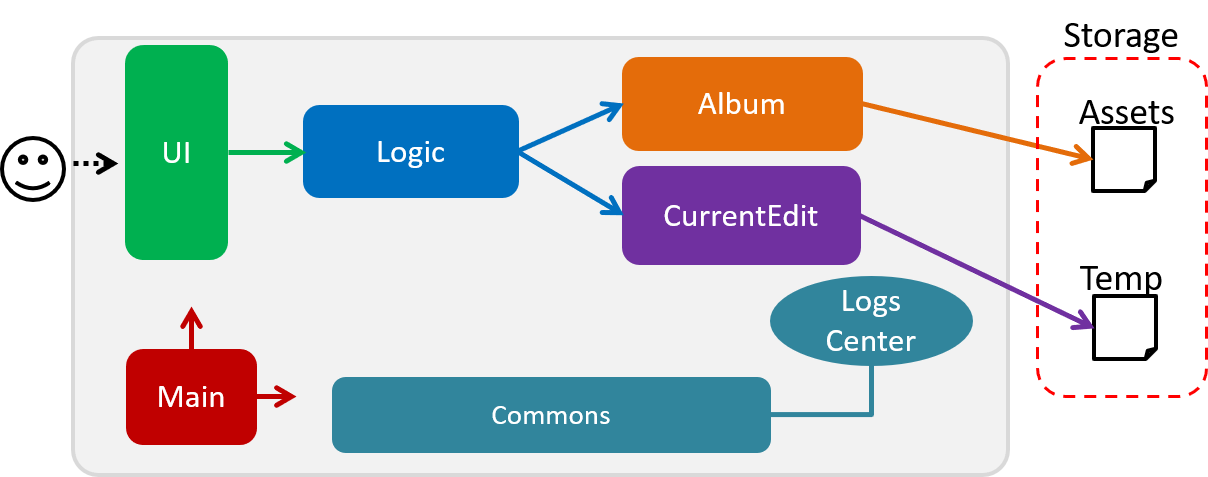
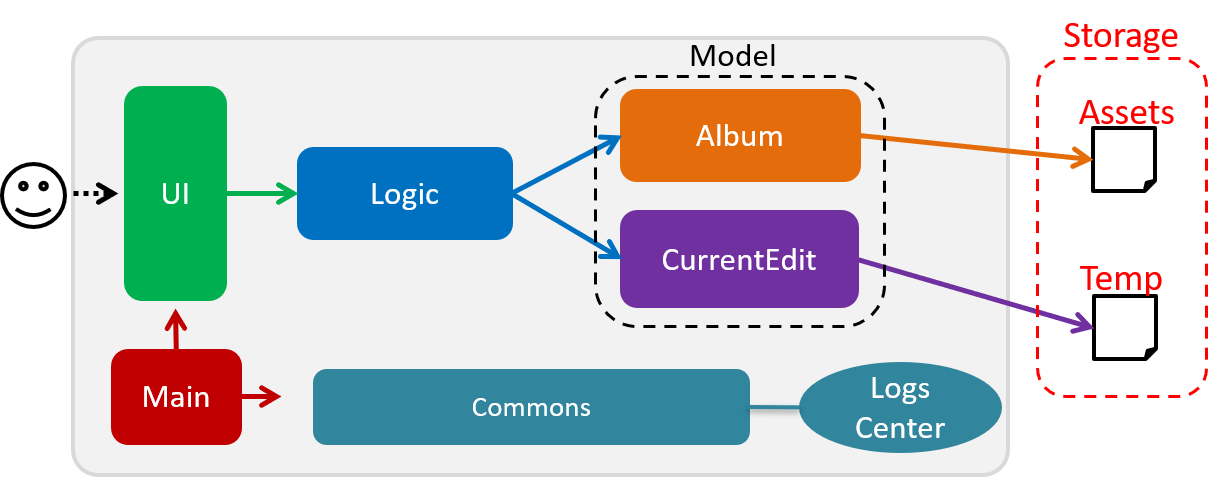
Rebuild pages at 01d3b1e4b3c762d44529b9273e14dbd3c4772f39

diff --git a/DeveloperGuide.html b/DeveloperGuide.html
@@ -359,7 +359,7 @@ The following class plays an important role at the architecture level:</p>
 </ul>
 </div>
 <div class="paragraph">
-<p>The rest of the App consists of five components.</p>
+<p>The rest of the App consists of four components.</p>
 </div>
 <div class="ulist">
 <ul>
@@ -370,18 +370,15 @@ The following class plays an important role at the architecture level:</p>
 <p><a href="#Design-Logic"><strong><code>Logic</code></strong></a>: The command executor.</p>
 </li>
 <li>
-<p><a href="#Design-CurrentEdit"><strong><code>CurrentEdit</code></strong></a>: Holds the image that the App is currently editing in-memory.</p>
-</li>
-<li>
 <p><a href="#Design-Storage"><strong><code>Storage</code></strong></a>: Reads data from, and writes data to, the hard disk.</p>
 </li>
 <li>
-<p><a href="#Design-Album"><strong><code>Album</code></strong></a>: Stores the pool of images that has been imported into the App.</p>
+<p><a href="#Design-Model"><strong><code>Model</code></strong></a>: Holds the data of images in the App in memory.</p>
 </li>
 </ul>
 </div>
 <div class="paragraph">
-<p>The first four components:</p>
+<p>Each of the first three components do the following:</p>
 </div>
 <div class="ulist">
 <ul>
@@ -391,16 +388,29 @@ The following class plays an important role at the architecture level:</p>
 <li>
 <p>Exposes its functionality using a <code>{Component Name}Manager</code> class.</p>
 </li>
-</ul>
-</div>
-<div class="paragraph">
+<li>
 <p>For example, the <code>Logic</code> component (see the class diagram given below) defines it&#8217;s API in the <code>Logic.java</code> interface and exposes its functionality using the <code>LogicManager.java</code> class.</p>
+</li>
+</ul>
 </div>
 <div class="imageblock">
 <div class="content">
 <img src="images/LogicClassDiagram.png" alt="LogicClassDiagram" width="800">
 </div>
 <div class="title">Figure 2. Class Diagram of the Logic Component</div>
+</div>
+<div class="paragraph">
+<p>The <code>Model</code> component consists of two components:</p>
+</div>
+<div class="ulist">
+<ul>
+<li>
+<p><code>CurrentEdit</code> which holds the image that the App is currently editing in-memory.</p>
+</li>
+<li>
+<p><code>Album</code> which stores the pool of images that has been imported into the App.</p>
+</li>
+</ul>
 </div>
 <h4 id="how-the-architecture-components-interact-with-each-other" class="discrete">How the architecture components interact with each other</h4>
 <div class="paragraph">
@@ -2817,4 +2827,4 @@ Expected: Similar to previous.</p>
 </div>
 </div>
 </div>
-</div></div><div id="footer"><div class="container"><div id="footer-text">Last updated 2019-03-31 16:29:35 UTC</div></div></div></body></html>
+</div></div><div id="footer"><div class="container"><div id="footer-text">Last updated 2019-03-31 16:30:23 UTC</div></div></div></body></html>

diff --git a/team/carrein.html b/team/carrein.html
@@ -378,4 +378,4 @@ If the <code>index</code> is at index <code>commandHistory.size()</code>, pointi
 <p><em>{Optionally, you may include other projects in your portfolio.}</em></p>
 </div>
 </div>
-</div></div><div id="footer"><div class="container"><div id="footer-text">Last updated 2019-03-31 16:29:35 UTC</div></div></div></body></html>
+</div></div><div id="footer"><div class="container"><div id="footer-text">Last updated 2019-03-31 16:30:23 UTC</div></div></div></body></html>

diff --git a/team/itszp.html b/team/itszp.html
@@ -375,4 +375,4 @@ If the <code>index</code> is at index <code>commandHistory.size()</code>, pointi
 <p><em>{Optionally, you may include other projects in your portfolio.}</em></p>
 </div>
 </div>
-</div></div><div id="footer"><div class="container"><div id="footer-text">Last updated 2019-03-31 16:29:35 UTC</div></div></div></body></html>
+</div></div><div id="footer"><div class="container"><div id="footer-text">Last updated 2019-03-31 16:30:23 UTC</div></div></div></body></html>

diff --git a/LearningOutcomes.html b/LearningOutcomes.html
@@ -549,4 +549,4 @@ When the value represented by the <code>ObservableValue</code> changes, it will 
 </div>
 </div>
 </div>
-</div></div><div id="footer"><div class="container"><div id="footer-text">Last updated 2019-03-31 16:29:35 UTC</div></div></div></body></html>
+</div></div><div id="footer"><div class="container"><div id="footer-text">Last updated 2019-03-31 16:30:23 UTC</div></div></div></body></html>

diff --git a/ContactUs.html b/ContactUs.html
@@ -12,4 +12,4 @@
 <p><strong>Email us</strong> : You can also reach us at <code>kayheen@u.nus.edu</code></p>
 </li>
 </ul>
-</div></div><div id="footer"><div class="container"><div id="footer-text">Last updated 2019-03-31 16:29:35 UTC</div></div></div></body></html>
+</div></div><div id="footer"><div class="container"><div id="footer-text">Last updated 2019-03-31 16:30:23 UTC</div></div></div></body></html>

diff --git a/UsingGradle.html b/UsingGradle.html
@@ -255,4 +255,4 @@ See <code>build.gradle</code> &#8594; <code>allprojects</code> &#8594; <code>dep
 </ul>
 </div>
 </div>
-</div></div><div id="footer"><div class="container"><div id="footer-text">Last updated 2019-03-31 16:29:35 UTC</div></div></div></body></html>
+</div></div><div id="footer"><div class="container"><div id="footer-text">Last updated 2019-03-31 16:30:23 UTC</div></div></div></body></html>

diff --git a/UsingNetlify.html b/UsingNetlify.html
@@ -123,4 +123,4 @@ The publish directory is the directory in which the built HTML documentation res
 </ol>
 </div>
 </div>
-</div></div><div id="footer"><div class="container"><div id="footer-text">Last updated 2019-03-31 16:29:35 UTC</div></div></div></body></html>
+</div></div><div id="footer"><div class="container"><div id="footer-text">Last updated 2019-03-31 16:30:23 UTC</div></div></div></body></html>

diff --git a/UsingCoveralls.html b/UsingCoveralls.html
@@ -96,4 +96,4 @@ If you have not set up Travis CI, see <a href="UsingTravis.html">UsingTravis.ado
 </ol>
 </div>
 </div>
-</div></div><div id="footer"><div class="container"><div id="footer-text">Last updated 2019-03-31 16:29:35 UTC</div></div></div></body></html>
+</div></div><div id="footer"><div class="container"><div id="footer-text">Last updated 2019-03-31 16:30:23 UTC</div></div></div></body></html>

diff --git a/UsingTravis.html b/UsingTravis.html
@@ -277,4 +277,4 @@ Suggested change: Remove the codacy badge from <code>README</code>.</p>
 </div>
 </div>
 </div>
-</div></div><div id="footer"><div class="container"><div id="footer-text">Last updated 2019-03-31 16:29:35 UTC</div></div></div></body></html>
+</div></div><div id="footer"><div class="container"><div id="footer-text">Last updated 2019-03-31 16:30:23 UTC</div></div></div></body></html>

diff --git a/AboutUs.html b/AboutUs.html
@@ -94,4 +94,4 @@ Responsibilities: Documentation, Image Manipulation</p>
 <hr>
 </div>
 </div>
-</div></div><div id="footer"><div class="container"><div id="footer-text">Last updated 2019-03-31 16:29:35 UTC</div></div></div></body></html>
+</div></div><div id="footer"><div class="container"><div id="footer-text">Last updated 2019-03-31 16:30:23 UTC</div></div></div></body></html>

diff --git a/UsingCheckstyle.html b/UsingCheckstyle.html
@@ -91,4 +91,4 @@ Restart the IDE to complete the installation.</p>
 </ul>
 </div>
 </div>
-</div></div><div id="footer"><div class="container"><div id="footer-text">Last updated 2019-03-31 16:29:35 UTC</div></div></div></body></html>
+</div></div><div id="footer"><div class="container"><div id="footer-text">Last updated 2019-03-31 16:30:23 UTC</div></div></div></body></html>

diff --git a/HelpWindow.html b/HelpWindow.html
@@ -566,4 +566,4 @@ e.g. <code>save MyNewImage.png</code><br></p>
 </ul>
 </div>
 </div>
-</div></div><div id="footer"><div class="container"><div id="footer-text">Last updated 2019-03-31 16:29:35 UTC</div></div></div></body></html>
+</div></div><div id="footer"><div class="container"><div id="footer-text">Last updated 2019-03-31 16:30:23 UTC</div></div></div></body></html>
